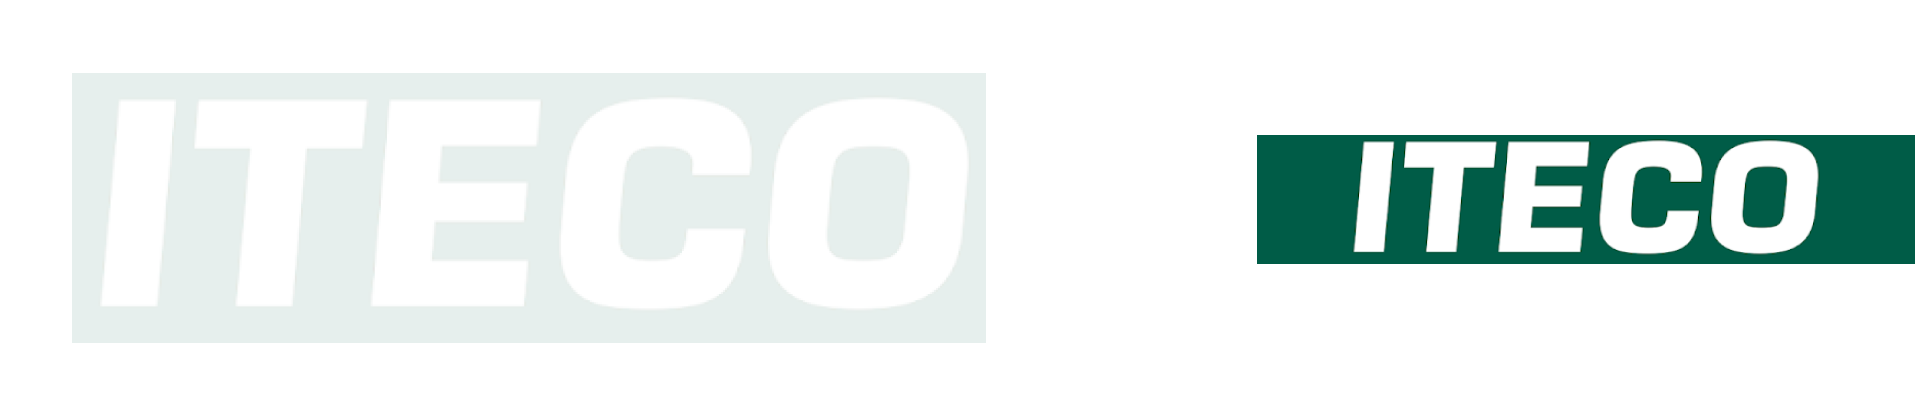
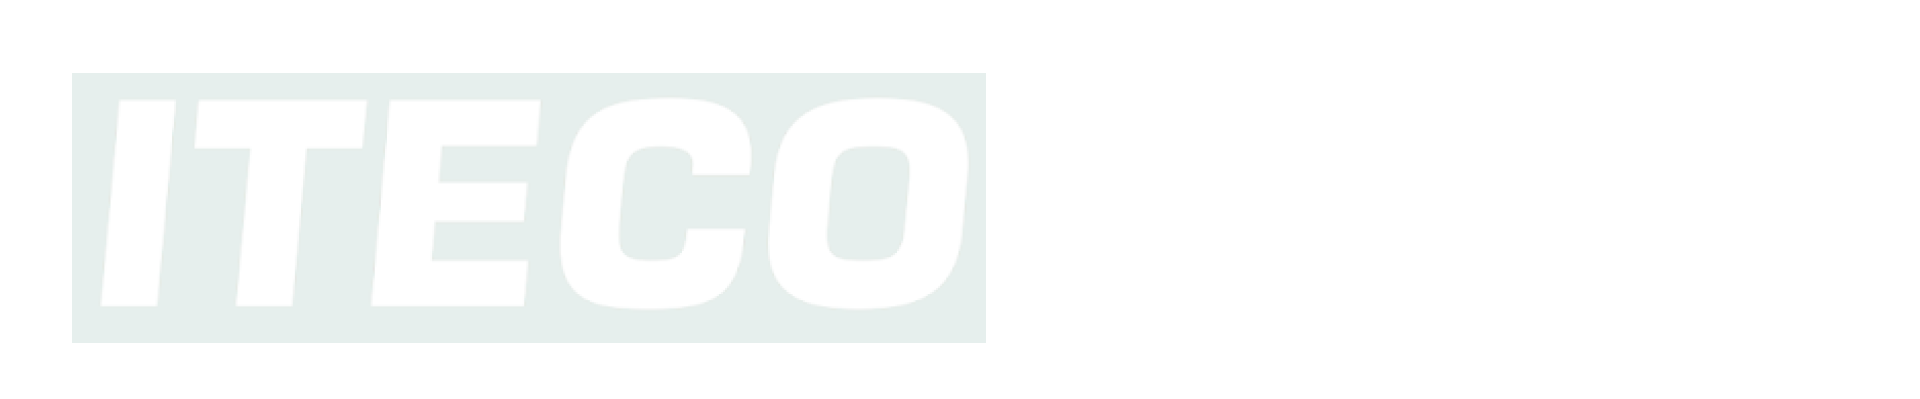
feat: верстка "все проекты"

Changed region(s): [[0.6562, 0.3308, 1.0, 0.6617]]

diff --git a/src/scss/layout/pages/all-projects/_project-card.scss b/src/scss/layout/pages/all-projects/_project-card.scss
@@ -5,8 +5,17 @@
 
   padding: 75px 0;
 
+  @include breakpoint($breakpoint-tablet--large) {
+    flex-direction: column;
+    padding: 0;
+  }
+
   &:not(:last-child) {
     margin-bottom: 50px;
+
+    @include breakpoint($breakpoint-tablet--large) {
+      margin-bottom: 30px;
+    }
   }
 
   @media (hover: hover) {
@@ -21,6 +30,28 @@
     position: relative;
     z-index: 2;
     width: 100%;
+
+    @include breakpoint($breakpoint-tablet--large) {
+      z-index: 4;
+      box-shadow: 0 4px 4px rgba(0, 0, 0, 0.25);
+    }
+  }
+
+  &__content,
+  &__background {
+    @include breakpoint($breakpoint-tablet--large) {
+      height: 100px !important;
+    }
+  }
+
+  &__wrapper {
+    @include breakpoint($breakpoint-tablet--large) {
+      display: flex;
+      align-items: center;
+      justify-content: space-between;
+
+      padding: 25px 0;
+    }
   }
 
   &__title,
@@ -30,14 +61,24 @@
 
   &__title {
     margin-bottom: 20px;
+
+    @include breakpoint($breakpoint-tablet--large) {
+      margin-bottom: 0;
+      font-size: 16px;
+    }
   }
 
   &__button {
     border-color: $text-white;
+
+    @include breakpoint($breakpoint-mobile--large) {
+      font-size: 14px;
+    }
   }
 
   &__background,
   &__fill,
+  &__logo,
   &__pattern {
     position: absolute;
     width: 100%;
@@ -52,15 +93,29 @@
     background-color: $text-gray;
   }
 
-  &__pattern {
-    z-index: 1;
+  &__pattern,
+  &__logo {
     top: 0;
     left: 0;
+
+    object-fit: contain;
+  }
+
+  &__pattern {
+    z-index: 1;
+  }
+
+  &__logo {
+    z-index: 2;
+
+    @include breakpoint($breakpoint-tablet--large) {
+      display: none;
+    }
   }
 
   &__image {
     position: absolute;
-    z-index: 2;
+    z-index: 3;
     top: 0;
     right: 0;
 
@@ -72,5 +127,20 @@
     clip-path: polygon(25% 0%, 100% 0%, 100% 100%, 0% 100%);
     transform: translateX(100%);
     transition: 0.5s ease;
+
+    &--mobile {
+      display: none;
+
+      @include breakpoint($breakpoint-tablet--large) {
+        position: static;
+        display: block;
+
+        width: 100%;
+        height: 85px;
+
+        clip-path: none;
+        transform: none;
+      }
+    }
   }
 }

diff --git a/src/scss/layout/pages/all-projects/_hero.scss b/src/scss/layout/pages/all-projects/_hero.scss
@@ -2,13 +2,33 @@
   background-color: $palette-black;
   padding-bottom: 85px;
 
+  @include breakpoint($breakpoint-tablet--large) {
+    padding-bottom: 30px;
+  }
+
   .hero__description {
     min-height: initial;
     margin-bottom: 60px;
+
+    @include breakpoint($breakpoint-tablet--large) {
+      display: block;
+      margin-bottom: 0;
+      padding-bottom: 0;
+    }
+
+    @include breakpoint($breakpoint-tablet) {
+      br {
+        display: none;
+      }
+    }
   }
 
   .hero__cta {
     padding-top: 0;
+
+    @include breakpoint($breakpoint-tablet--large) {
+      display: none;
+    }
   }
 
   .hero__content {
@@ -19,6 +39,12 @@
   .hero__description {
     position: relative;
     z-index: 2;
+  }
+
+  .hero__title {
+    @include breakpoint($breakpoint-tablet--large) {
+      margin-bottom: 15px;
+    }
   }
 
   .hero__background {

diff --git a/src/scss/layout/pages/all-projects/_projects.scss b/src/scss/layout/pages/all-projects/_projects.scss
@@ -2,10 +2,18 @@
   background-color: $palette-black;
 
   padding-bottom: 70px;
+
+  @include breakpoint($breakpoint-tablet--large) {
+    padding-bottom: 30px;
+  }
 }
 
 .projects {
   &__marquee {
     margin-top: 70px;
+
+    @include breakpoint($breakpoint-tablet--large) {
+      margin-top: 30px;
+    }
   }
 }

diff --git a/src/all-projects.php b/src/all-projects.php
@@ -3,7 +3,7 @@
 <!-- Основной контент -->
 <main>
   <section data-hero id="project-hero">
-    <div data-hero class="hero hero--service">
+    <div data-hero class="hero">
       <div class="hero__row">
         <div class="container">
           <div class="hero__wrapper">
@@ -30,18 +30,6 @@
         <!-- /.container -->
       </div>
       <!-- /.hero__row -->
-
-      <div class="hero__row hero__row--white hero__row--mobile">
-        <div class="container">
-          <div class="hero__cta">
-            <a href="#promotions"><button class="button button--cta button-primary mb-3 mb-md-0 me-md-3">Наши акции</button></a>
-            <a style="text-align: center;" href="#portfolio--block"><button class="button button--cta button-outline">Портфолио</button></a>
-          </div>
-          <!-- /.hero__action -->
-        </div>
-        <!-- /.container -->
-      </div>
-      <!-- /.hero__row hero__row--white -->
     </div>
     <!-- /.hero -->
   </section>
@@ -51,8 +39,11 @@
       <div class="project-card">
         <div class="project-card__content">
           <div class="container">
-            <h2 class="page__title project-card__title">Брендирование авто <br> для KazanExpress</h2>
-            <button class="project-card__button button button-outline">Смотреть</button>
+            <div class="project-card__wrapper">
+              <h2 class="page__title project-card__title">Брендирование авто <br> для KazanExpress</h2>
+              <button class="project-card__button button button-outline">Смотреть</button>
+            </div>
+            <!-- /.project-card__wrapper -->
           </div>
           <!-- /.container -->
         </div>
@@ -61,17 +52,23 @@
         <div class="project-card__background">
           <div style="background-color: #005C47;" class="project-card__fill"></div>
           <img src="img/page/all-projects/project-card/background.png" alt="" class="project-card__pattern">
+          <img src="img/page/all-projects/project-card/logo.png" alt="" class="project-card__logo">
           <img src="img/page/all-projects/project-card/image.jpg" alt="" class="project-card__image">
         </div>
         <!-- /.project-card__background -->
+
+        <img src="img/page/all-projects/project-card/image.jpg" alt="" class="project-card__image project-card__image--mobile">
       </div>
       <!-- /.project-card -->
 
       <div class="project-card">
         <div class="project-card__content">
           <div class="container">
-            <h2 class="page__title project-card__title">Брендирование авто <br> для KazanExpress</h2>
-            <button class="project-card__button button button-outline">Смотреть</button>
+            <div class="project-card__wrapper">
+              <h2 class="page__title project-card__title">Брендирование авто <br> для KazanExpress</h2>
+              <button class="project-card__button button button-outline">Смотреть</button>
+            </div>
+            <!-- /.project-card__wrapper -->
           </div>
           <!-- /.container -->
         </div>
@@ -80,17 +77,23 @@
         <div class="project-card__background">
           <div style="background-color: #005C47;" class="project-card__fill"></div>
           <img src="img/page/all-projects/project-card/background.png" alt="" class="project-card__pattern">
+          <img src="img/page/all-projects/project-card/logo.png" alt="" class="project-card__logo">
           <img src="img/page/all-projects/project-card/image.jpg" alt="" class="project-card__image">
         </div>
         <!-- /.project-card__background -->
+
+        <img src="img/page/all-projects/project-card/image.jpg" alt="" class="project-card__image project-card__image--mobile">
       </div>
       <!-- /.project-card -->
 
       <div class="project-card">
         <div class="project-card__content">
           <div class="container">
-            <h2 class="page__title project-card__title">Брендирование авто <br> для KazanExpress</h2>
-            <button class="project-card__button button button-outline">Смотреть</button>
+            <div class="project-card__wrapper">
+              <h2 class="page__title project-card__title">Брендирование авто <br> для KazanExpress</h2>
+              <button class="project-card__button button button-outline">Смотреть</button>
+            </div>
+            <!-- /.project-card__wrapper -->
           </div>
           <!-- /.container -->
         </div>
@@ -99,9 +102,12 @@
         <div class="project-card__background">
           <div style="background-color: #005C47;" class="project-card__fill"></div>
           <img src="img/page/all-projects/project-card/background.png" alt="" class="project-card__pattern">
+          <img src="img/page/all-projects/project-card/logo.png" alt="" class="project-card__logo">
           <img src="img/page/all-projects/project-card/image.jpg" alt="" class="project-card__image">
         </div>
         <!-- /.project-card__background -->
+
+        <img src="img/page/all-projects/project-card/image.jpg" alt="" class="project-card__image project-card__image--mobile">
       </div>
       <!-- /.project-card -->
     </div>
